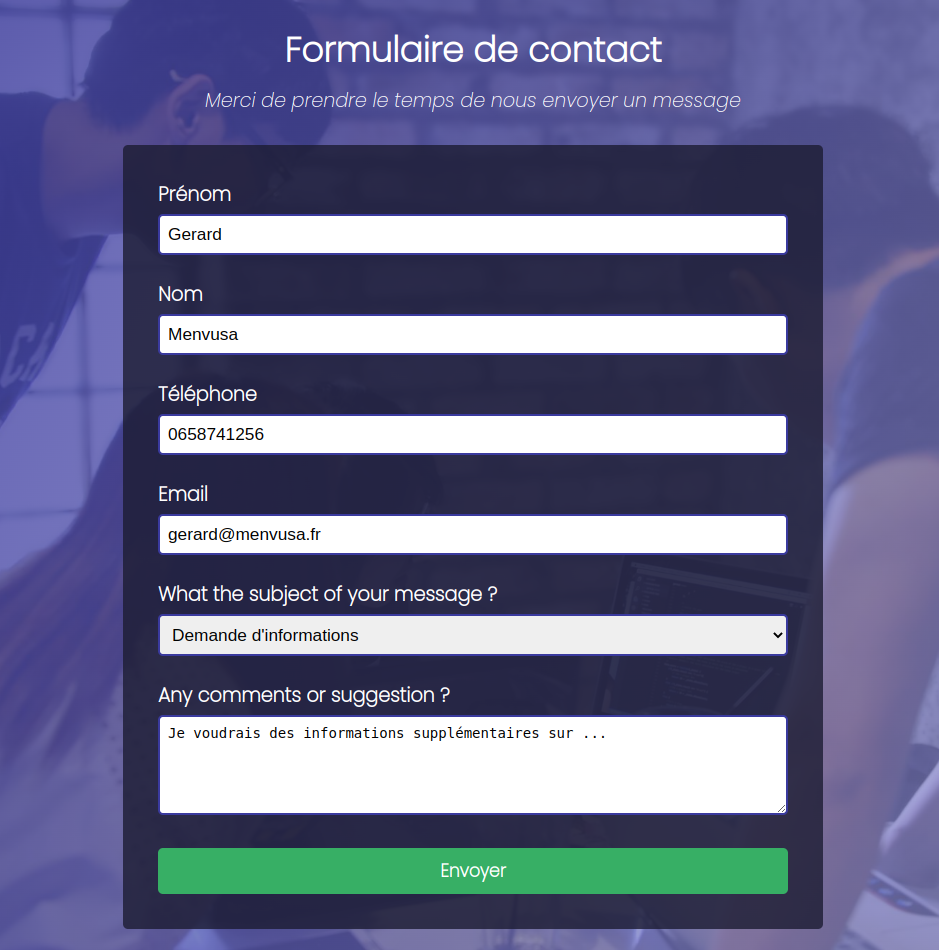
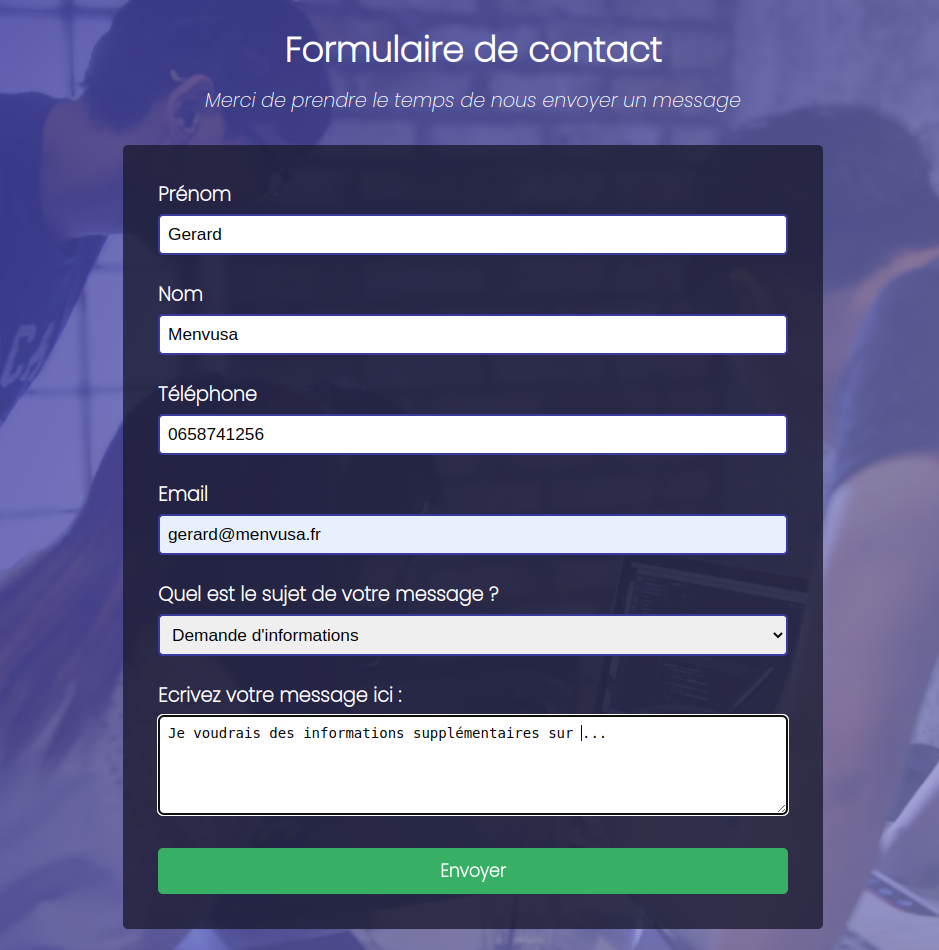
correction faute et actualisation image

diff --git a/form.php b/form.php
@@ -37,7 +37,7 @@
         </div>
 
         <div class="field">
-            <label for="dropdown">What the subject of your message ?</label>
+            <label for="dropdown">Quel est le sujet de votre message ?</label>
             <select name="dropdown" id="dropdown" class="dropmenu" required>
                 <option value="" disabled selected>Select the subject</option>
                 <option value="Deamande d'information">Demande d'informations</option>
@@ -49,7 +49,7 @@
         </div>
 
         <div class="field">
-            <label for="message" class="label-block">Any comments or suggestion ?</label>
+            <label for="message" class="label-block">Ecrivez votre message ici :</label>
             <textarea name="message" id="message" rows="5" placeholder="Enter your comment here..."></textarea>
         </div>
 

diff --git a/README.md b/README.md
@@ -3,4 +3,5 @@ Quête Wild Code School
 
 ![Page form.php](./snap_01.png)
 
+
 ![Page form.php](./snap_02.png)
